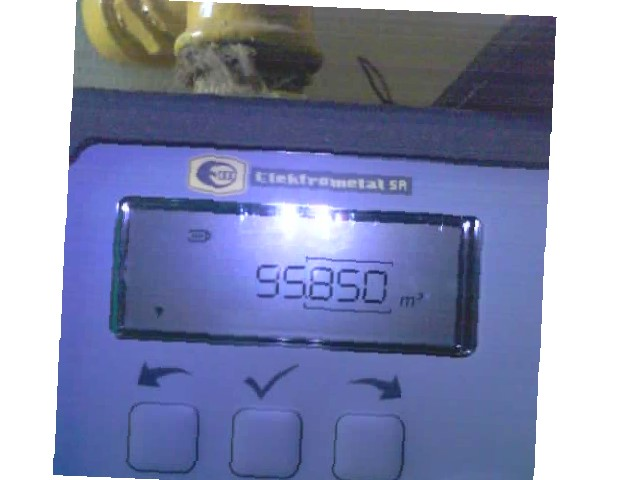
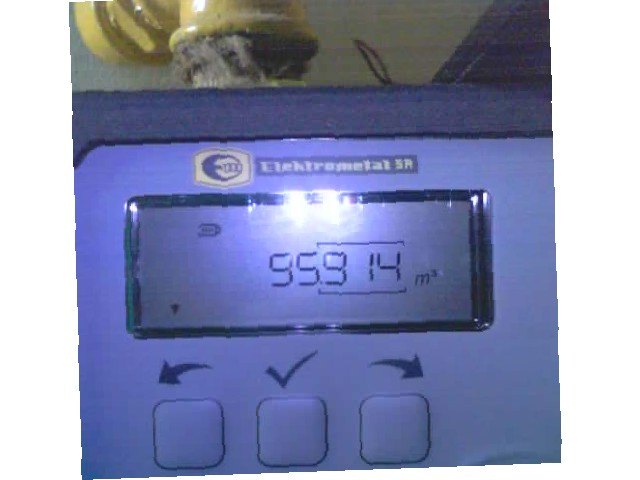
Automatyczna aktualizacja strony i danych

Changed region(s): [[0.0625, 0.0, 0.875, 1.0], [0.2188, 0.75, 0.3438, 0.8438], [0.5312, 0.0625, 0.5625, 0.0938]]

diff --git a/index.html b/index.html
@@ -35,11 +35,11 @@
 <body>
     <div class="container">
         <h1>Bieżący Stan Licznika</h1>
-        <div class="status">Ostatnia aktualizacja danych:<br><span class="timestamp">2026-10-27 07:20:50</span></div>
+        <div class="status">Ostatnia aktualizacja danych:<br><span class="timestamp">2026-10-27 07:26:17</span></div>
         <div class="odczyt">93498 m³</div>
         <div class="uwaga">Ostatni odczyt się nie powiódł, wyświetlana jest poprzednia poprawna wartość.</div>
         <h3>Aktualne zdjęcie z gazomierza:</h3>
-        <img src="img_tmp/alg.jpg?t=1793082050" alt="Zdjęcie licznika">
+        <img src="img_tmp/alg.jpg?t=1793082377" alt="Zdjęcie licznika">
     </div>
 </body>
 </html>
